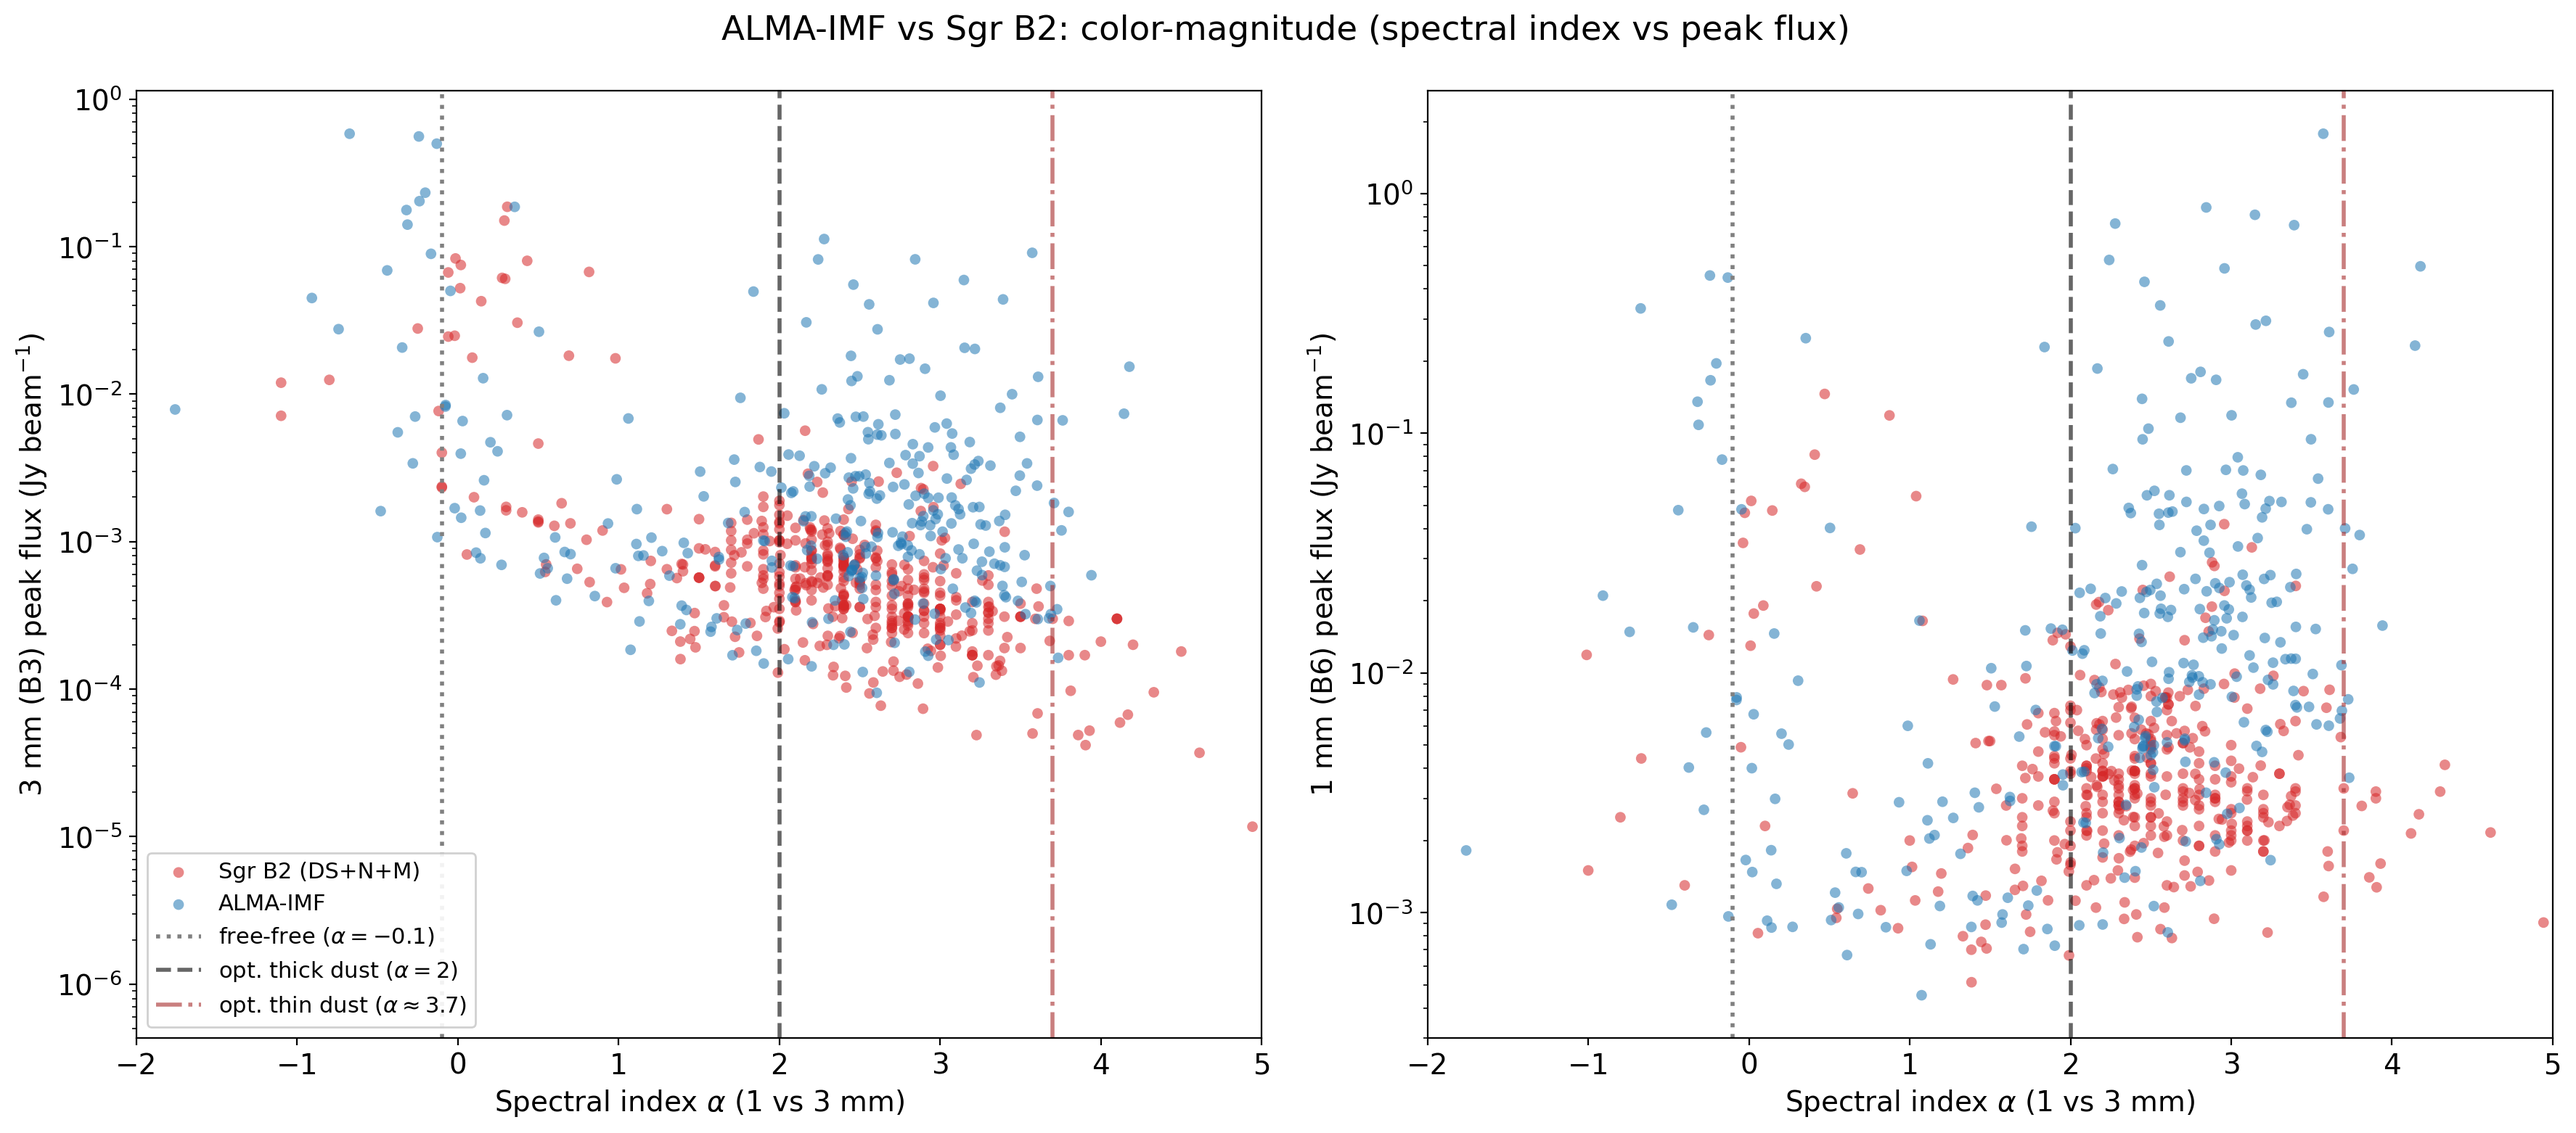
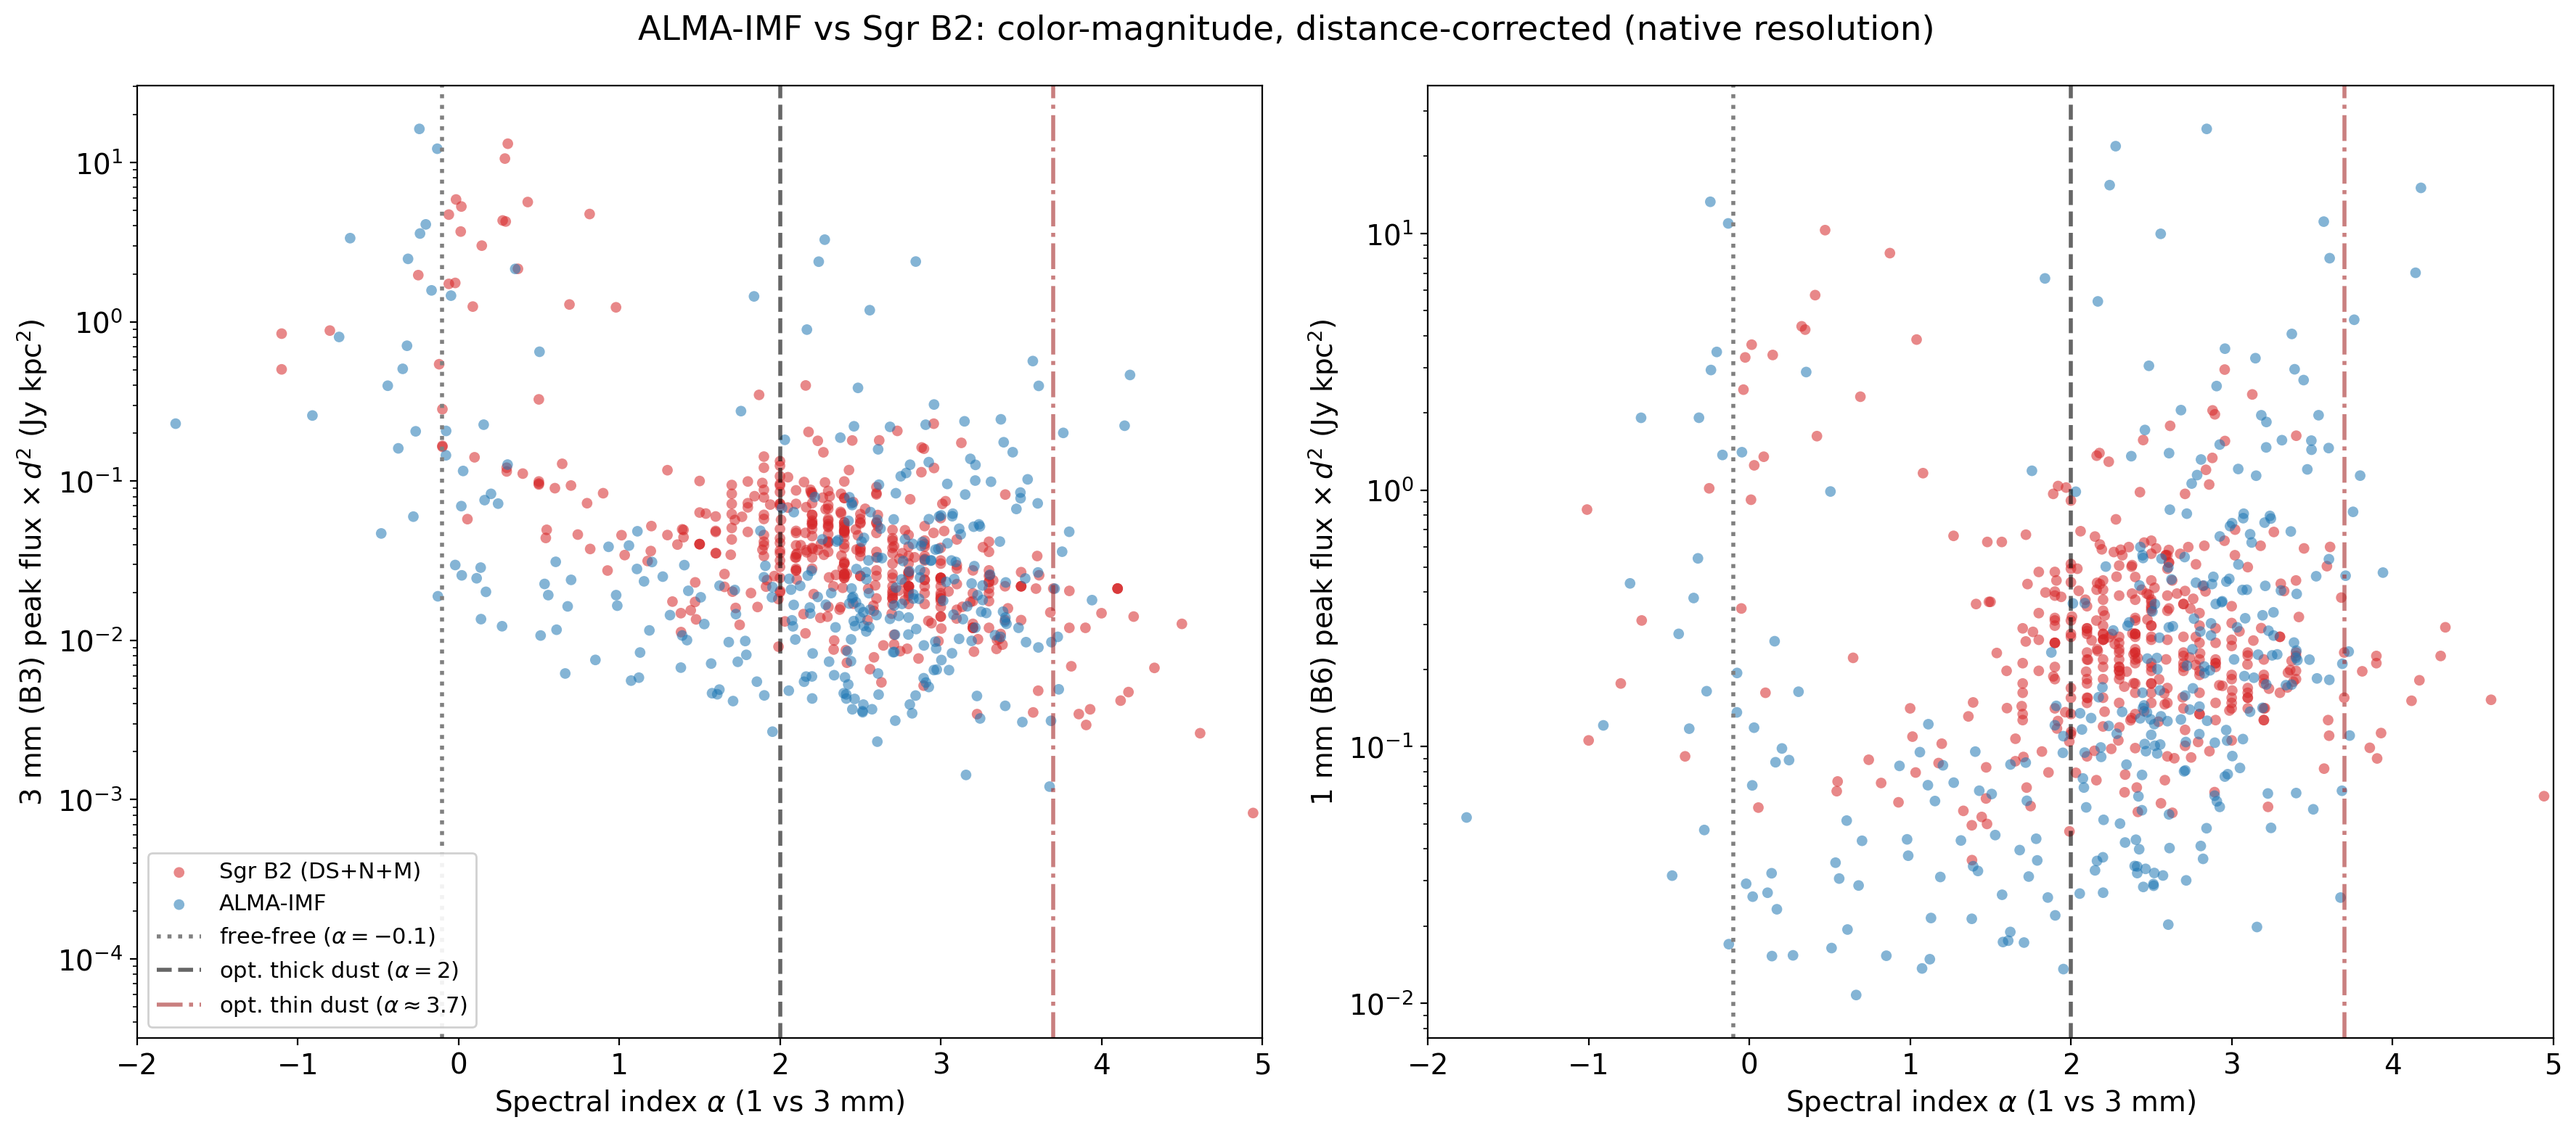
almaimf talk prep

diff --git a/almaimf_garching2026.html b/almaimf_garching2026.html
@@ -106,23 +106,6 @@ We find that 20% of YSOs in the two targeted massive star-forming regions, two o
     </div>
 </section>
 
-<section>
-    <h4>Massive star clusters are detected in other galaxies, resolved in ours </h4>
-    <div style="width:50%; float:left" class=smaller>NGC 253 protoclusters <span class=smaller>(<a href="http://adsabs.harvard.edu/abs/2018ApJ...869..126L">Leroy+2018</a>)</span></div>
-    <div style="width:50%; float:right" class=smaller>NGC 4945 protoclusters <span class=smaller>(<a href="http://adsabs.harvard.edu/abs/2018ApJ...869..126L">Emig+2020</a>)</span></div>
-    <img style="max-width:23%;" src="colloquium_assets/Leroy2018_Forming_fig1.svg">
-    <img style="max-width:43%;" src="colloquium_assets/ngc4945_zoom_sgrb2_crop.png">
-    <img style="max-width:23%;" src="colloquium_assets/Emig_NGC4945_PaA.png">
-    </span>
-    <!--<div class=smaller style='position:relative; top: 20%'> 2 pc beam = 0.11" </div>-->
-
-    <aside class=notes>
-        <ul>
-            <li> no notes
-        </ul>
-    </aside>
-</section>
-
 <!-- ============================================================
      ALMA-IMF vs Sgr B2 core comparison (Budaiev, Daley)
      spectral-index "color-magnitude" diagrams + luminosity histograms
@@ -206,7 +189,7 @@ We find that 20% of YSOs in the two targeted massive star-forming regions, two o
 
 <section>
     <div class=smaller>ALMA-IMF vs Sgr B2 cores share the same region of color&ndash;magnitude space</div>
-    <img src="assets/Nazar/almaimf_vs_sgrb2_color_magnitude.png" style="max-height:80%; background-color:white">
+    <img src="assets/Nazar/almaimf_vs_sgrb2_matched_resolution.png" style="max-height:80%; background-color:white">
     <div class=smaller3>Sgr B2 (DS+N+M, red) vs ALMA-IMF (blue)</div>
 </section>
 
@@ -262,6 +245,25 @@ We find that 20% of YSOs in the two targeted massive star-forming regions, two o
     <img src="assets/Nazar/antoniodaley/SgrB2_vs_ALMA-IMF_histogram_peak_flux_1mm_catalog_breakdown_HII_included.png" style="max-height:78%; background-color:white">
     <div class=smaller3>Daley, Budaiev, Ginsburg (in prep)</div>
 </section>
+
+
+<section>
+    <h4>Massive star clusters are detected in other galaxies, resolved in ours </h4>
+    <div style="width:50%; float:left" class=smaller>NGC 253 protoclusters <span class=smaller>(<a href="http://adsabs.harvard.edu/abs/2018ApJ...869..126L">Leroy+2018</a>)</span></div>
+    <div style="width:50%; float:right" class=smaller>NGC 4945 protoclusters <span class=smaller>(<a href="http://adsabs.harvard.edu/abs/2018ApJ...869..126L">Emig+2020</a>)</span></div>
+    <img style="max-width:23%;" src="colloquium_assets/Leroy2018_Forming_fig1.svg">
+    <img style="max-width:43%;" src="colloquium_assets/ngc4945_zoom_sgrb2_crop.png">
+    <img style="max-width:23%;" src="colloquium_assets/Emig_NGC4945_PaA.png">
+    </span>
+    <!--<div class=smaller style='position:relative; top: 20%'> 2 pc beam = 0.11" </div>-->
+
+    <aside class=notes>
+        <ul>
+            <li> no notes
+        </ul>
+    </aside>
+</section>
+
 
 
 <section>
